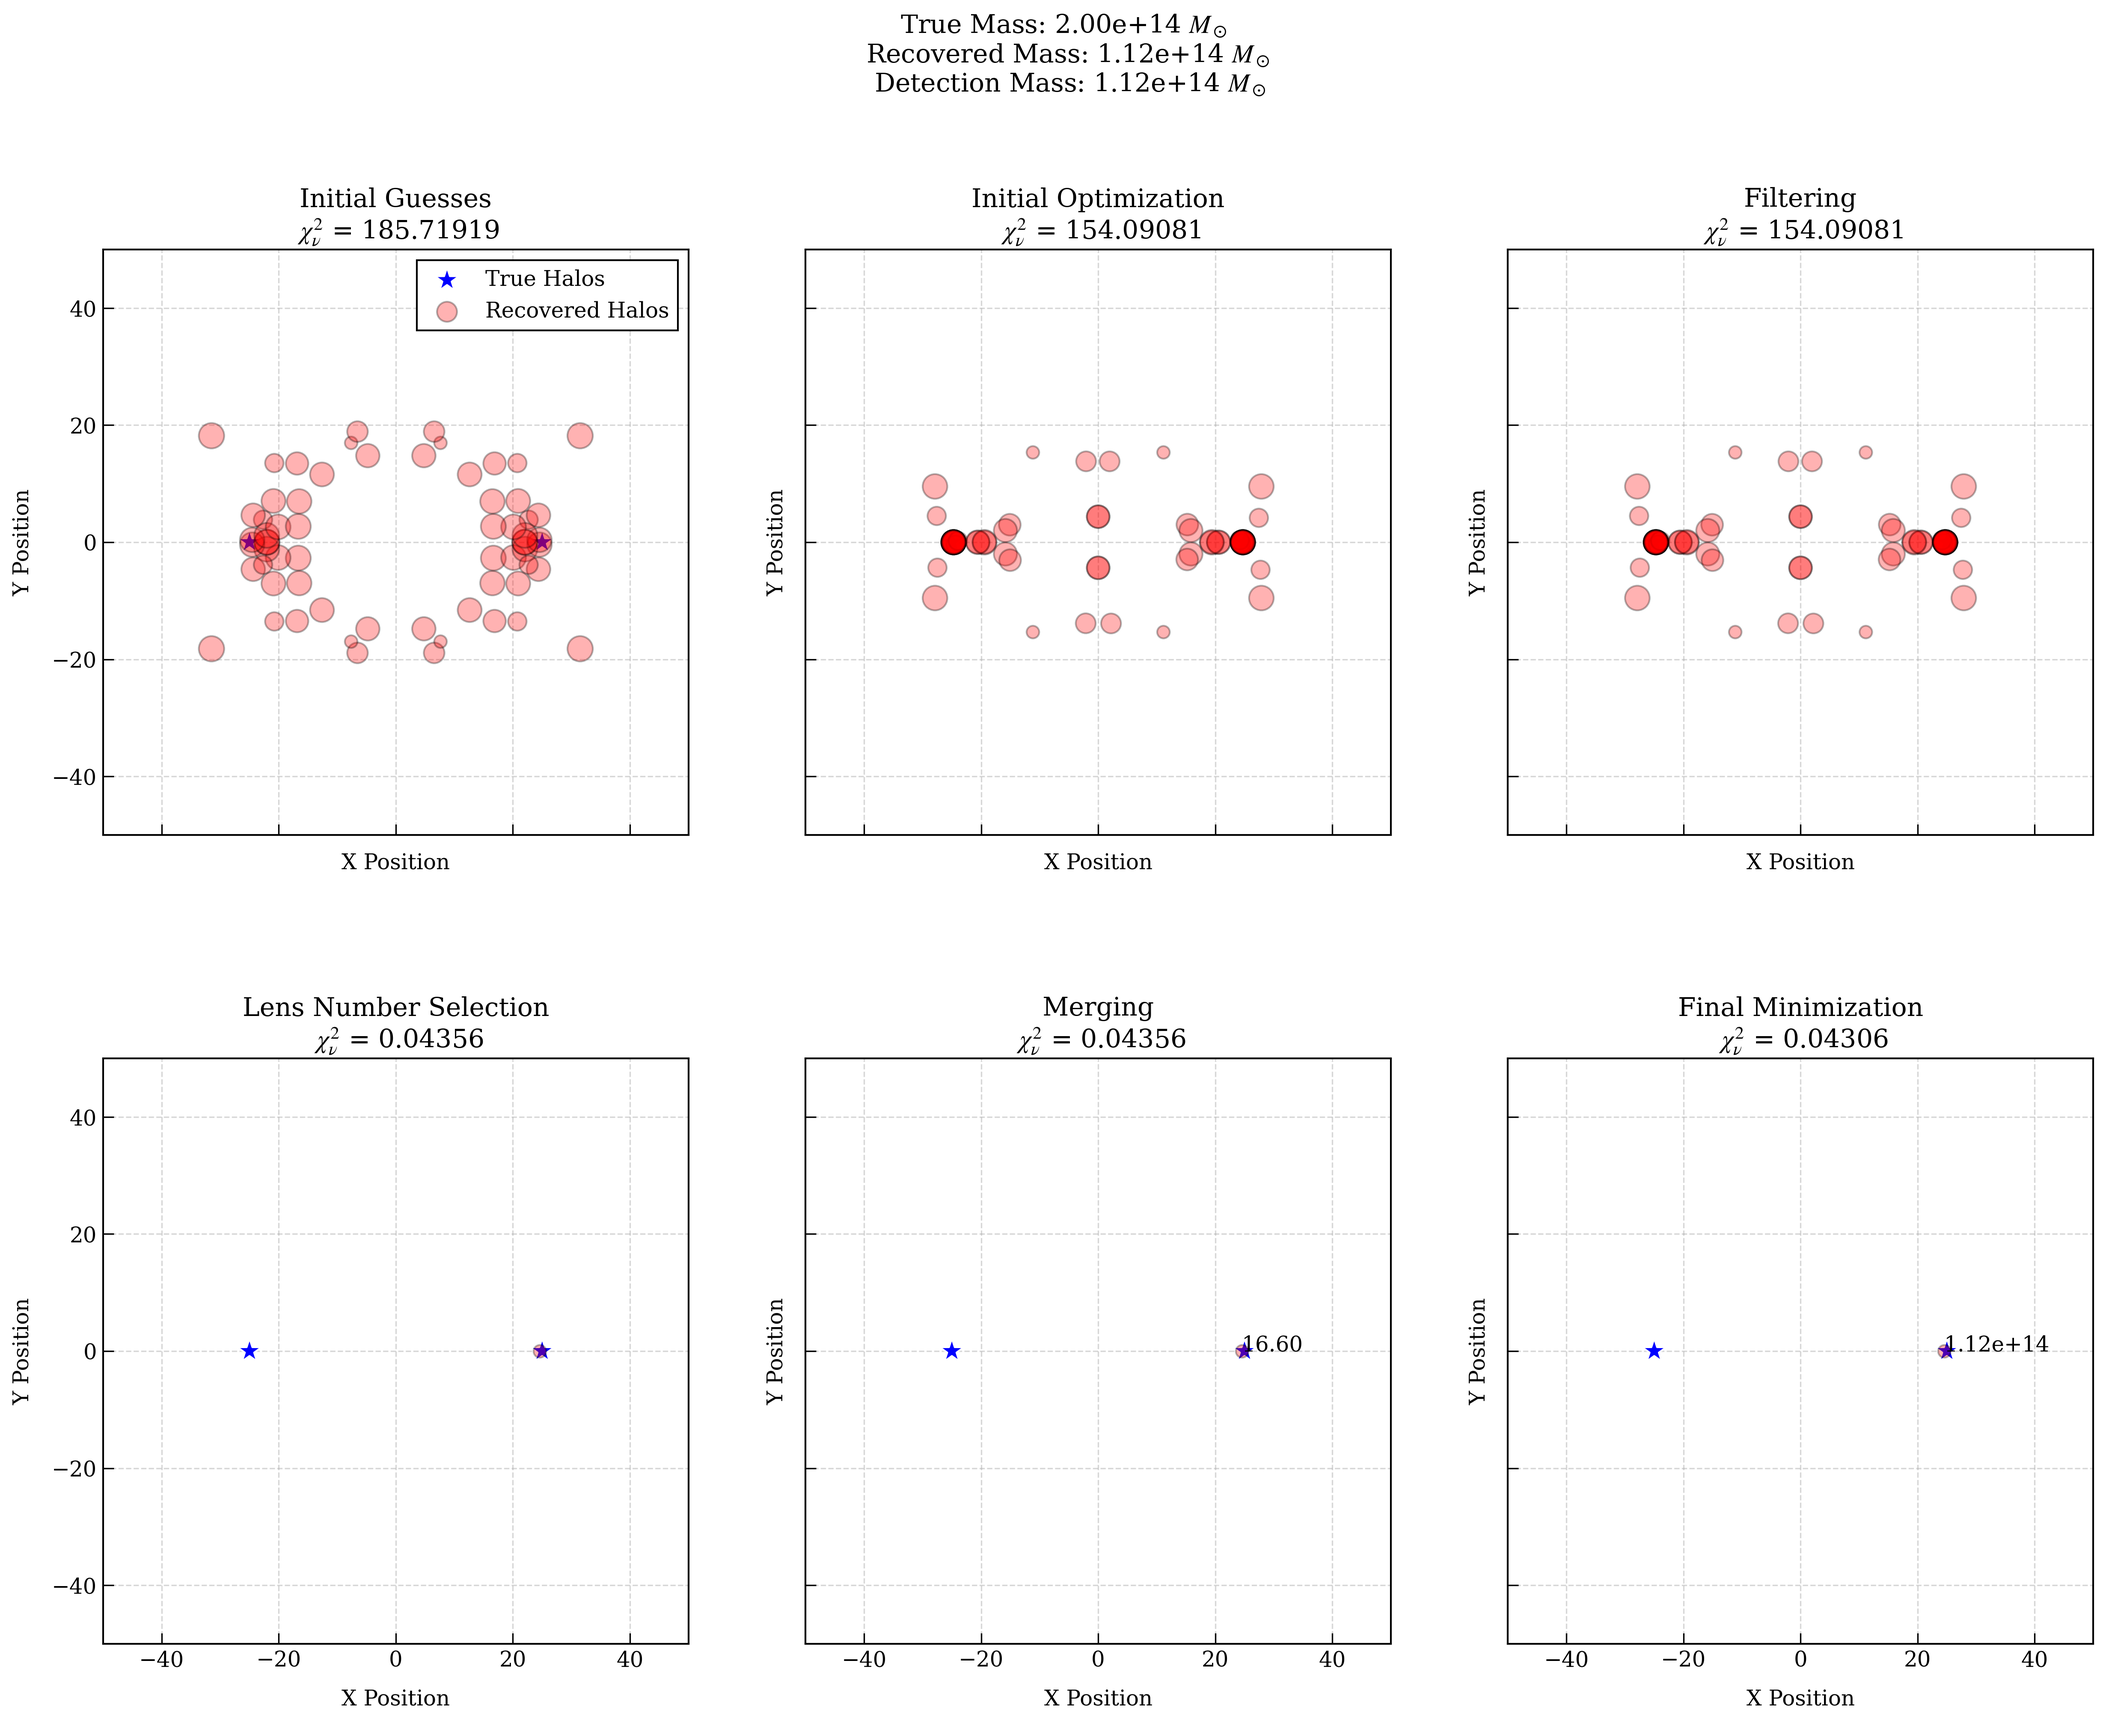
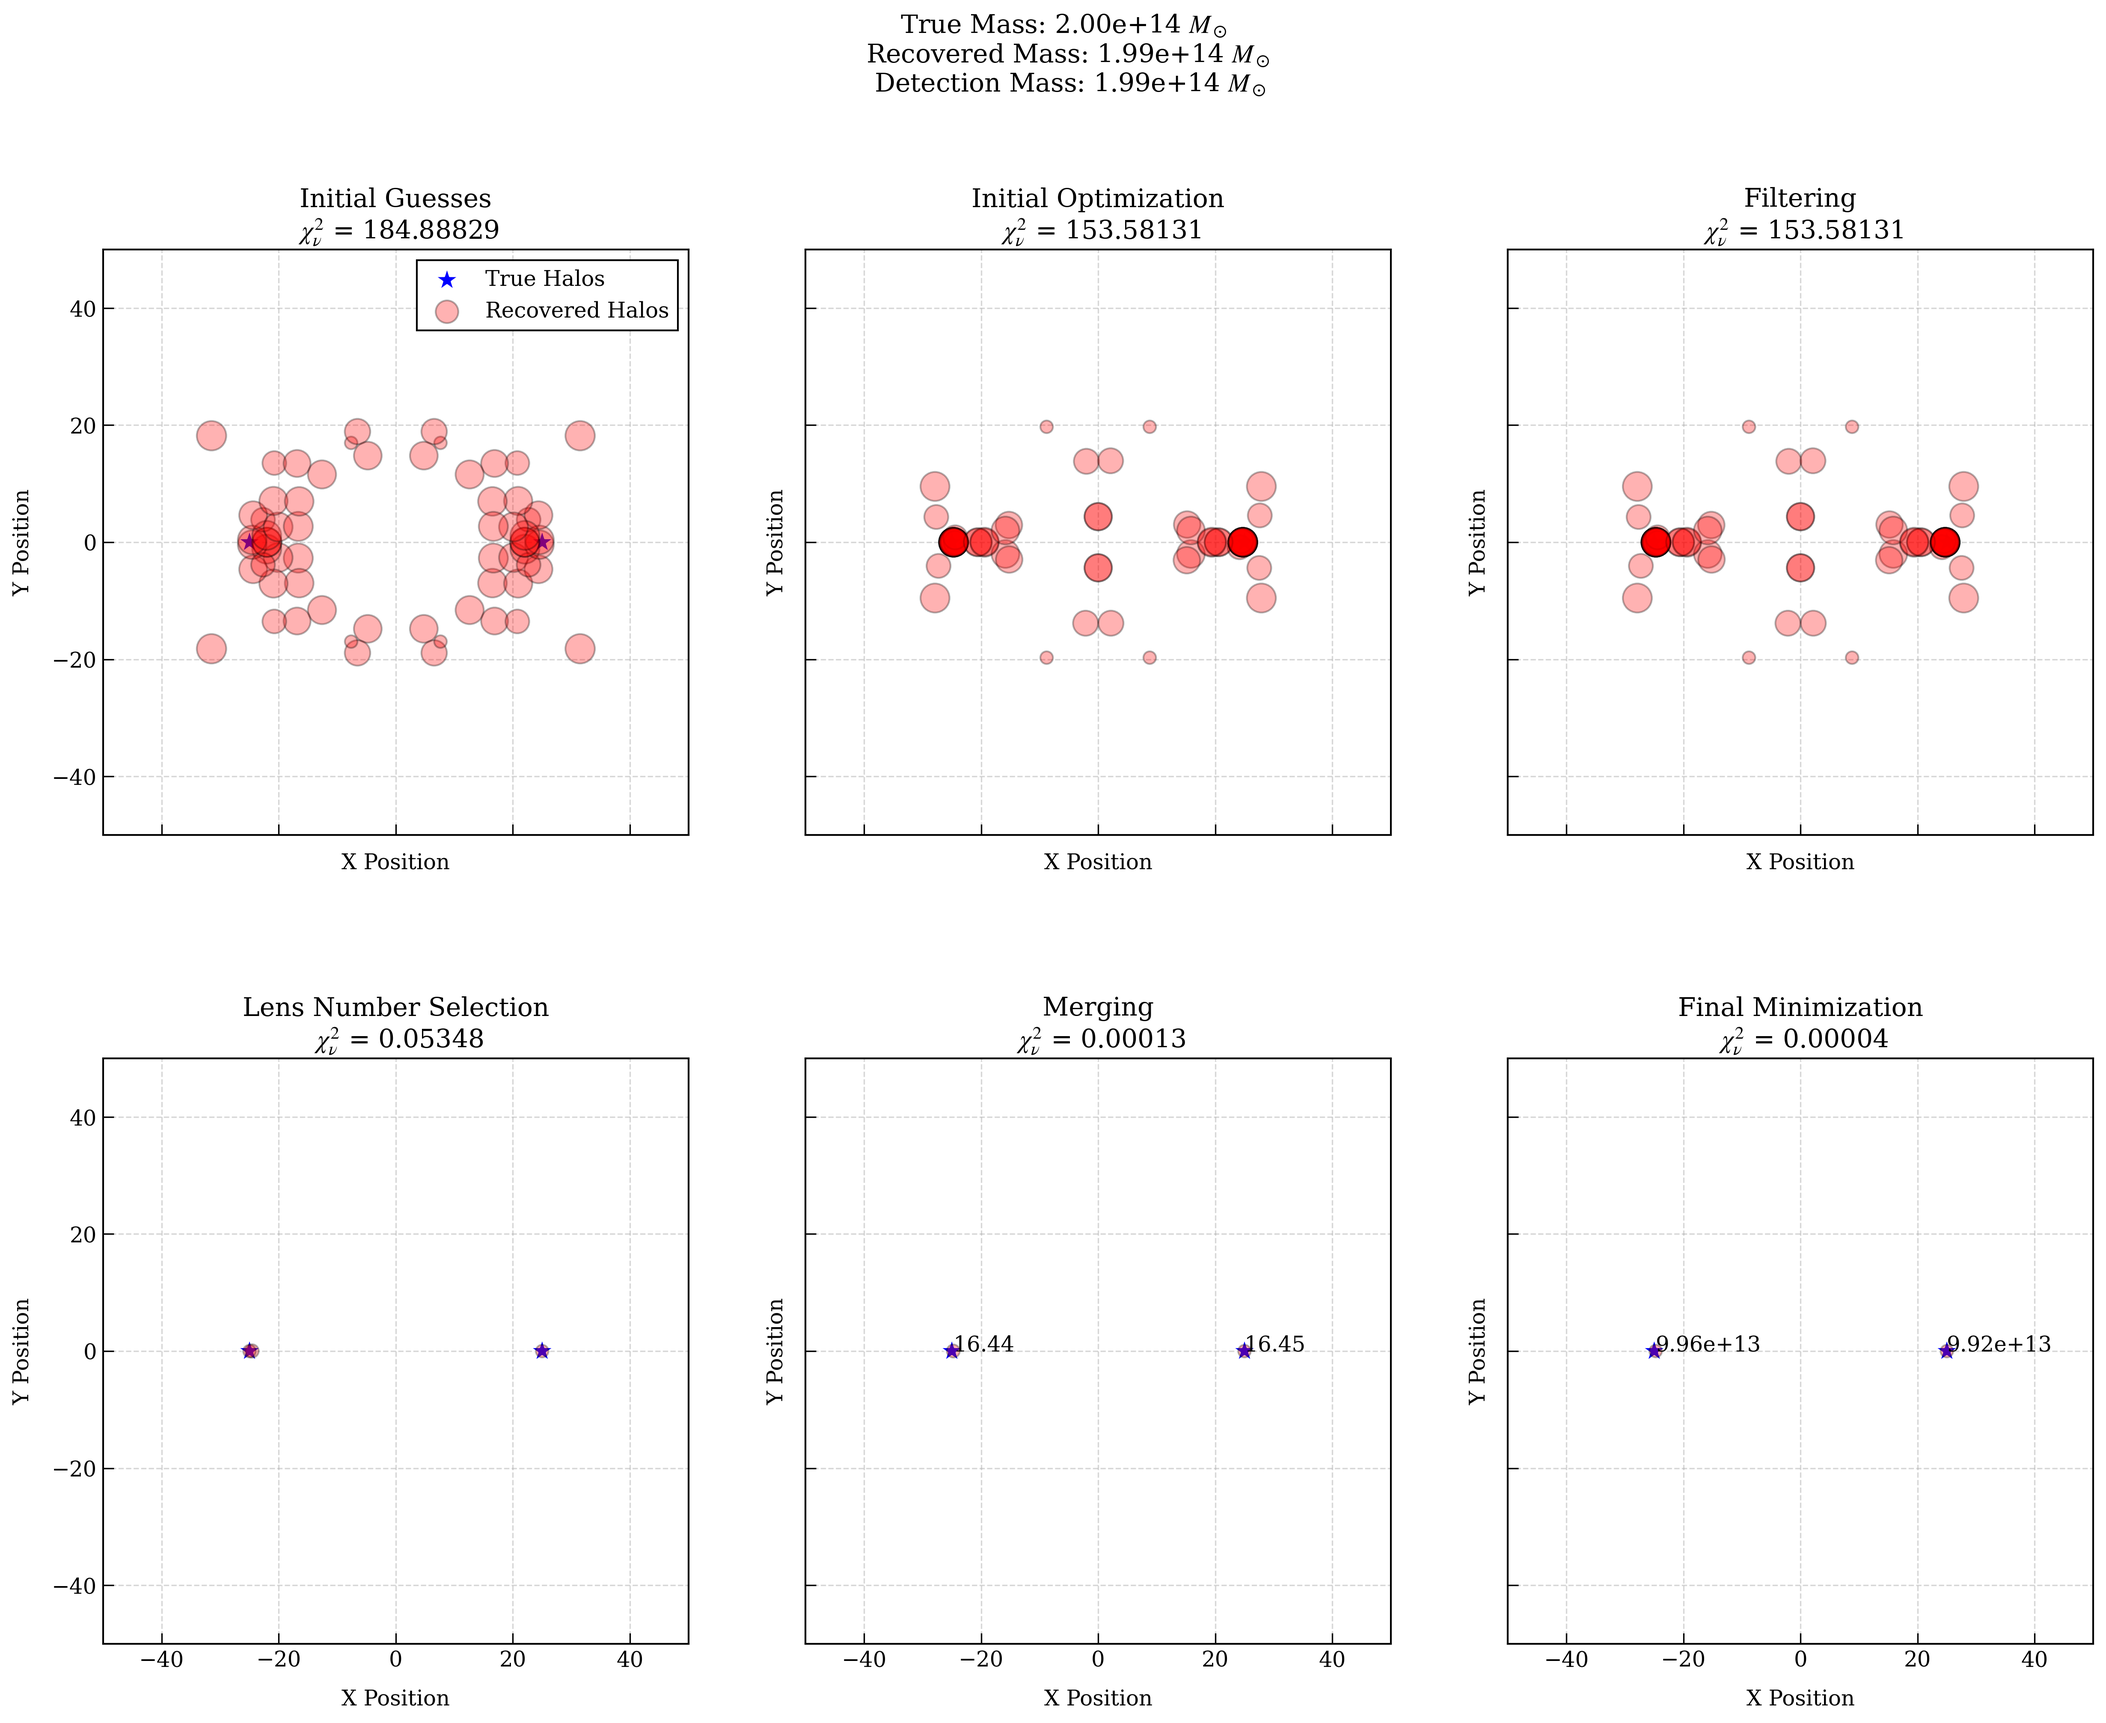
Further test of minimization

diff --git a/mdark.py b/mdark.py
@@ -780,7 +780,7 @@ def run_simple_tests():
     Nsource = int(ns * np.pi * (xmax)**2) # Number of sources
     masses = [1e14, 1e13]
     lens_numbers = [1, 2]
-    noise_use = [True]
+    noise_use = [False]
     # use_flags_choices = [[True, True, True], [True, True, False], [False, True, True], [True, False, True]]
 
     for mass in masses:
@@ -828,7 +828,75 @@ def process_md_set(test_number):
 
 
 if __name__ == '__main__':
-    run_simple_tests()
+    # run_simple_tests()
+
+    halo, sources, xmax = utils.build_standardized_field(1, 100, 1e14, 50, False)
+
+    
+
+    
+    # Randomly place a single source
+    xmax = 20
+    xs = np.array([10.0])
+    ys = np.array([0.0])
+    sigs = np.array([0.1])
+    sigf = np.array([0.01])
+    sigg = np.array([0.02])
+    sources = pipeline.Source(xs, ys, np.zeros_like(xs), np.zeros_like(xs), np.zeros_like(xs), np.zeros_like(xs), np.zeros_like(xs), np.zeros_like(xs), sigs, sigf, sigg)
+    sources.apply_NFW_lensing(halo)
+    
+    masses = []
+    perturbed_masses = []
+    Ntrials = 100
+    # Initialize progress bar
+    utils.print_progress_bar(0, Ntrials, prefix='Progress:', suffix='Complete', length=50)
+    for n in range(Ntrials):
+        sources.apply_noise()
+
+        # Create a lens object with the exactly correct position and concentration - this assumes that we perfectly located the halo, and the only thing we need to do is to calculate the mass
+        lens = copy.deepcopy(halo)
+        # Randomize the mass
+        # lens.mass = np.random.normal(1e14, 1e12, 1)
+
+        # Run the final minimization
+        results = lens.full_minimization(sources, [True, True, False])
+        reducedchi2 = lens.update_chi2_values(sources, [True, True, False])
+        masses.append(np.sum(lens.mass))
+
+        # Now clone the source object
+        sources_1 = copy.deepcopy(sources)
+        # Perturb e1 and f1
+        sources_1.e1 *= 0.95
+        sources_1.f1 *= 0.95
+        
+        results_1 = lens.full_minimization(sources_1, [True, True, False])
+        reducedchi2_1 = lens.update_chi2_values(sources_1, [True, True, False])
+        perturbed_masses.append(np.sum(lens.mass))
+        # Update the progress bar
+        utils.print_progress_bar(n + 1, Ntrials, prefix='Progress:', suffix='Complete', length=50)
+    
+    # Complete the progress bar
+    utils.print_progress_bar(Ntrials, Ntrials, prefix='Progress:', suffix='Complete', length=50)
+    
+    masses = np.array(masses)
+    masses = np.log10(masses)
+    perturbed_masses = np.array(perturbed_masses)
+    perturbed_masses = np.log10(perturbed_masses)
+    fig, ax = plt.subplots(1, 1, figsize=(15, 7))
+    fancy_hist(masses, ax=ax, bins='freedman', color='black', histtype='step', density=True, label='Mass', linestyle='--')
+    fancy_hist(perturbed_masses, ax=ax, bins='freedman', color='red', histtype='step', density=True, label='Perturbed Mass', linestyle='--')
+    ax.axvline(14, color='blue', linestyle='--', label='True Mass')
+    ax.axvline(np.mean(masses), color='black', linestyle='-', label='Mean Mass = {:.2f}'.format(np.mean(masses)))
+    ax.axvline(np.mean(perturbed_masses), color='red', linestyle='-', label='Mean Perturbed Mass = {:.2f}'.format(np.mean(perturbed_masses)))
+    ax.set_xlabel('Mass (log10)')
+    ax.set_ylabel('Probability Density')
+    ax.set_title('Mass Distribution')
+    ax.legend()
+    # ax[0].set_xscale('log')
+
+    plt.tight_layout()
+    plt.savefig('Images/NFW_tests/mass_chi2_distribution.png')
+    plt.show()
 
     raise ValueError('Testing complete')
 

diff --git a/pipeline.py b/pipeline.py
@@ -557,20 +557,9 @@ class Halo:
 
 
     def full_minimization(self, sources, use_flags):
-        '''
-        learning_rates = [1e-4, 1e-5]  # Adjust learning rate for mass and concentration parameters
-        num_iterations = 10**4
-        
-        for i in range(len(self.x)):
-            # Do the minimization one lens at a time - hopefully this will drive the mass of false lenses to zero
-            guess = [np.log10(self.mass[i]), self.concentration[i]]
-            params = ['NFW','dual_constraint',self.x[i], self.y[i], self.redshift, sources, use_flags]
-            result, path = minimizer.gradient_descent(chi2wrapper, guess, learning_rates=learning_rates, num_iterations=num_iterations, params=params)
-            self.mass[i], self.concentration[i] = 10**result[0], result[1]
-        '''
-
         # Okay - hail mary time
         # Perform a global optimization of the mass parameters
+        '''
         from scipy.optimize import differential_evolution
         bounds = [(10**9, 10**16)] * len(self.mass) # This will be the bounds for the mass parameters
         params = ('NFW', 'constrained', self.x, self.y, self.redshift, self.concentration, sources, use_flags)
@@ -579,18 +568,14 @@ class Halo:
         '''
         # Do the minimization one lens at a time - hopefully this will drive the mass of false lenses to zero
         # Try just minimizing the mass
+        num_iterations = 10**4
         for i in range(len(self.x)):
             guess = [np.log10(self.mass[i])]
-            learning_rates = [0.1]
-            # Shape the learning rates to match the shape of the guess
-            # Guess will be a 2D array, 2 x number of lenses
-            # Learning rates will be a 2D array, 2 x 1
-            # We need to reshape the learning rates to match the shape of the guess
-            # learning_rates = np.array(learning_rates).reshape(-1, 1)
+            learning_rates = [1e-4]
             params = ['NFW','constrained',self.x[i], self.y[i], self.redshift, self.concentration[i], sources, use_flags]
             result, path = minimizer.gradient_descent(chi2wrapper, guess, learning_rates=learning_rates, num_iterations=num_iterations, params=params)
             self.mass[i] = 10**result[0]
-        '''
+        
         # return path
 
 # ------------------------------
@@ -724,7 +709,7 @@ def chi2wrapper(guess, params):
             lenses.calculate_concentration()
             return calculate_chi_squared(params[0], lenses, params[1], lensing='NFW', use_weights=False)
         elif constraint_type == 'constrained':
-            lenses = Halo(params[0], params[1], np.zeros_like(params[0]), params[3], guess, params[2], np.empty_like(params[0]))
+            lenses = Halo(params[0], params[1], np.zeros_like(params[0]), params[3], 10**guess, params[2], np.empty_like(params[0]))
             lenses.calculate_concentration() # Update the concentration based on the new mass
             return calculate_chi_squared(params[4], lenses, params[5], lensing='NFW', use_weights=False)
         elif constraint_type == 'dual_constraint':
